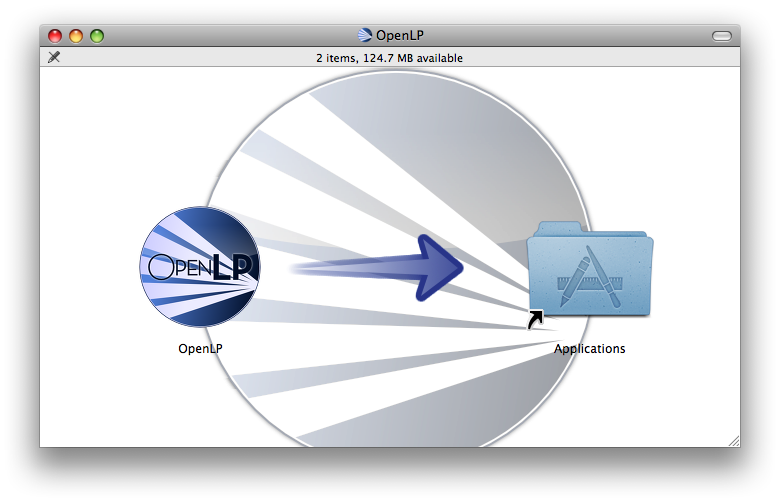
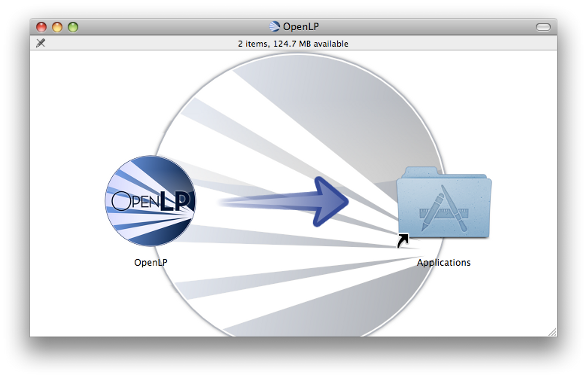
downsized a couple of overly large pics

diff --git a/manual/source/wizard.rst b/manual/source/wizard.rst
@@ -99,4 +99,4 @@ start.
 
 The main window.
 
-.. image:: pics/012-openlp-main-window.png
+.. image:: pics/mainwindow.png
